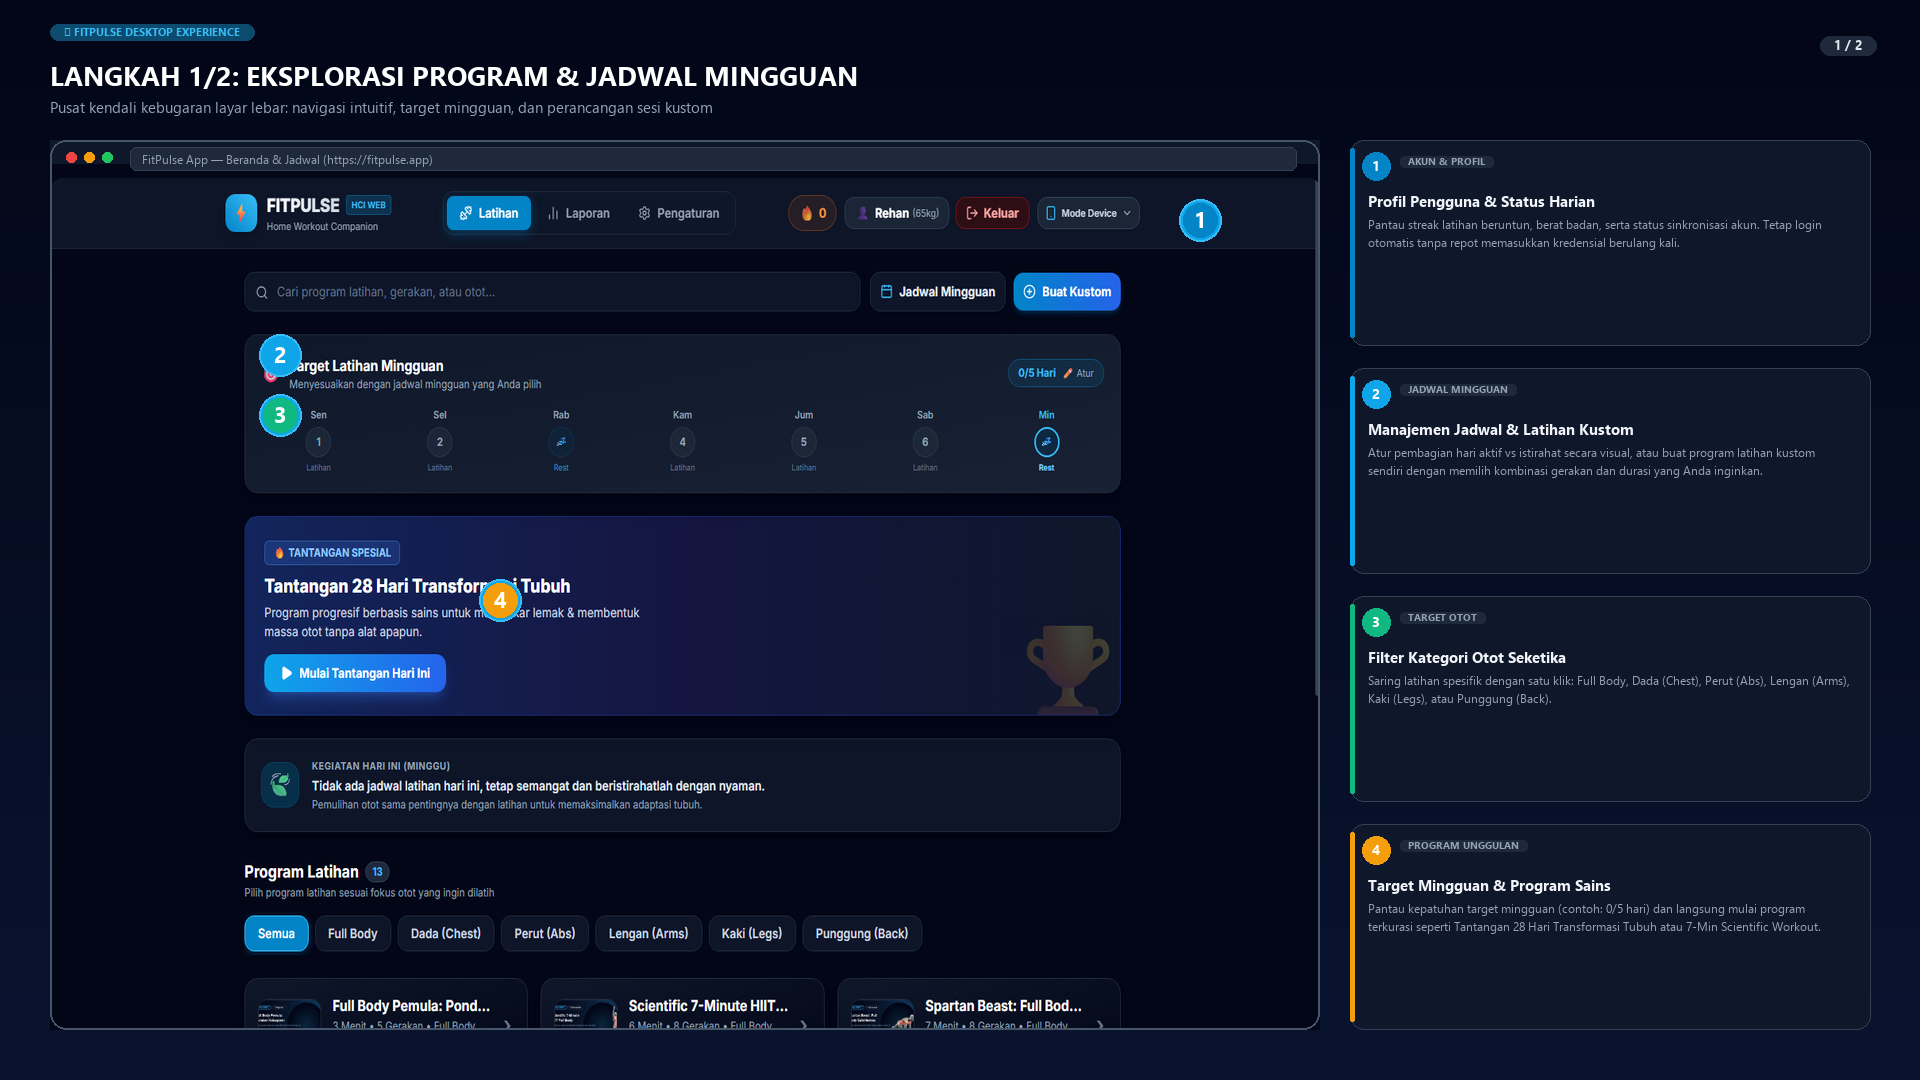
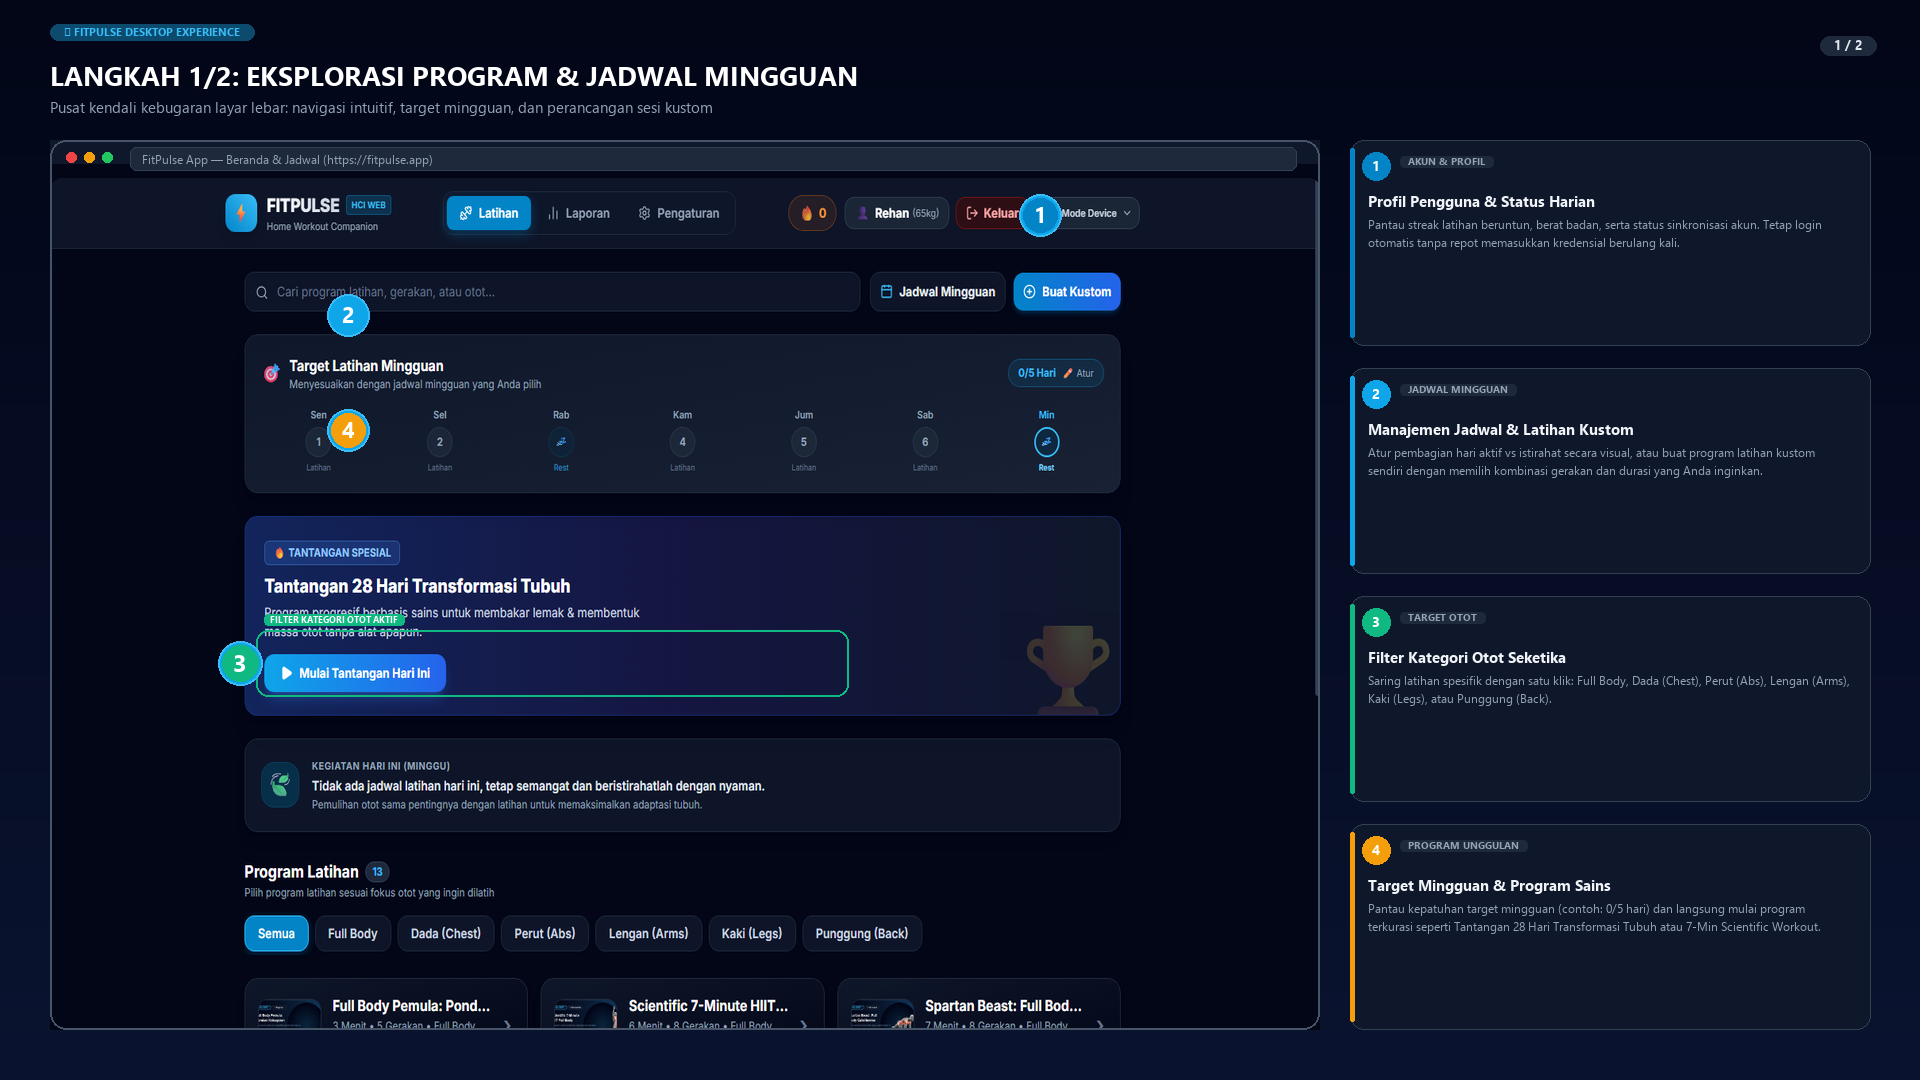
fix(guide): precisely align muscle category pin 3 on desktop and mobile user guides with glow highlight border

diff --git a/web/index.html b/web/index.html
@@ -1760,7 +1760,7 @@
   <div id="toast-container" class="fixed bottom-20 md:bottom-6 right-6 z-50 space-y-2 pointer-events-none"></div>
 
   <!-- Application Main JavaScript -->
-  <script src="/static/app.js?v=3.2.0"></script>
+  <script src="/static/app.js?v=3.2.1"></script>
 </body>
 </html>
 

diff --git a/workout_data/generate_guide_graphics.py b/workout_data/generate_guide_graphics.py
@@ -162,10 +162,15 @@ def build_all():
     p1y = 135
     c1.paste(phone1, (p1x, p1y), phone1)
 
+    # Highlight box around Muscle Category Pills on mobile
+    d1.rounded_rectangle([p1x + 28, p1y + 492, p1x + 416, p1y + 532], radius=10, outline=(16, 185, 129), width=2)
+    draw_badge(d1, 'KATEGORI OTOT', (p1x + 36, p1y + 476), get_font(FONT_BOLD_PATH, 8), (16, 185, 129), (255, 255, 255), pad_x=5, pad_y=2, radius=4)
+
+    # Pins
     draw_pin(d1, '1', (p1x + 360, p1y + 55), size=30, bg_color=(2, 132, 199))
-    draw_pin(d1, '2', (p1x + 100, p1y + 155), size=30, bg_color=(14, 165, 233))
-    draw_pin(d1, '3', (p1x + 100, p1y + 205), size=30, bg_color=(16, 185, 129))
-    draw_pin(d1, '4', (p1x + 100, p1y + 285), size=30, bg_color=(245, 158, 11))
+    draw_pin(d1, '2', (p1x + 90, p1y + 160), size=30, bg_color=(14, 165, 233))
+    draw_pin(d1, '4', (p1x + 90, p1y + 310), size=30, bg_color=(245, 158, 11))
+    draw_pin(d1, '3', (p1x + 24, p1y + 512), size=32, bg_color=(16, 185, 129))
     draw_pin(d1, '5', (p1x + 220, p1y + 865), size=30, bg_color=(168, 85, 247))
 
     draw_card(d1, (30, 1065), (374, 175), '1', 'Profil & Streak Harian', 'Pantau hari beruntun, berat badan, serta status sinkronisasi akun pengguna aktif.', tag='AKUN', accent=(2, 132, 199))
@@ -229,10 +234,21 @@ def build_all():
     w1x, w1y = 50, 140
     c3.paste(win1, (w1x, w1y), win1)
 
-    draw_pin(d3, '1', (w1x + 1150, w1y + 80), size=34, bg_color=(2, 132, 199))
-    draw_pin(d3, '2', (w1x + 230, w1y + 215), size=34, bg_color=(14, 165, 233))
-    draw_pin(d3, '3', (w1x + 230, w1y + 275), size=34, bg_color=(16, 185, 129))
-    draw_pin(d3, '4', (w1x + 450, w1y + 460), size=34, bg_color=(245, 158, 11))
+    # Glowing highlight box around Muscle Filter Pills ([Semua], [Full Body], [Dada], [Perut], etc.)
+    d3.rounded_rectangle([256, 630, 848, 696], radius=12, outline=(16, 185, 129), width=2)
+    draw_badge(d3, 'FILTER KATEGORI OTOT AKTIF', (264, 614), get_font(FONT_BOLD_PATH, 9), (16, 185, 129), (255, 255, 255), pad_x=6, pad_y=2, radius=4)
+
+    # Pin 1: Header / Profil Pengguna & Streak
+    draw_pin(d3, '1', (1040, 215), size=34, bg_color=(2, 132, 199))
+
+    # Pin 2: Tombol Jadwal Mingguan & Buat Kustom
+    draw_pin(d3, '2', (348, 315), size=34, bg_color=(14, 165, 233))
+
+    # Pin 4: Target Latihan Mingguan & Tantangan 28 Hari
+    draw_pin(d3, '4', (348, 430), size=34, bg_color=(245, 158, 11))
+
+    # Pin 3: Filter Kategori Otot (Tepat di baris tombol kategori otot)
+    draw_pin(d3, '3', (240, 663), size=36, bg_color=(16, 185, 129))
 
     cx = 1350
     cw = 520

diff --git a/workout_data/capture_guides.py b/workout_data/capture_guides.py
@@ -34,3 +34,4 @@ for fname, win_size, url in targets:
     print(f'Capturing {fname} ({win_size})...')
     res = subprocess.run(cmd, capture_output=True, timeout=25)
     print(f'Captured {fname}: exists={os.path.exists(out_p)}')
+
